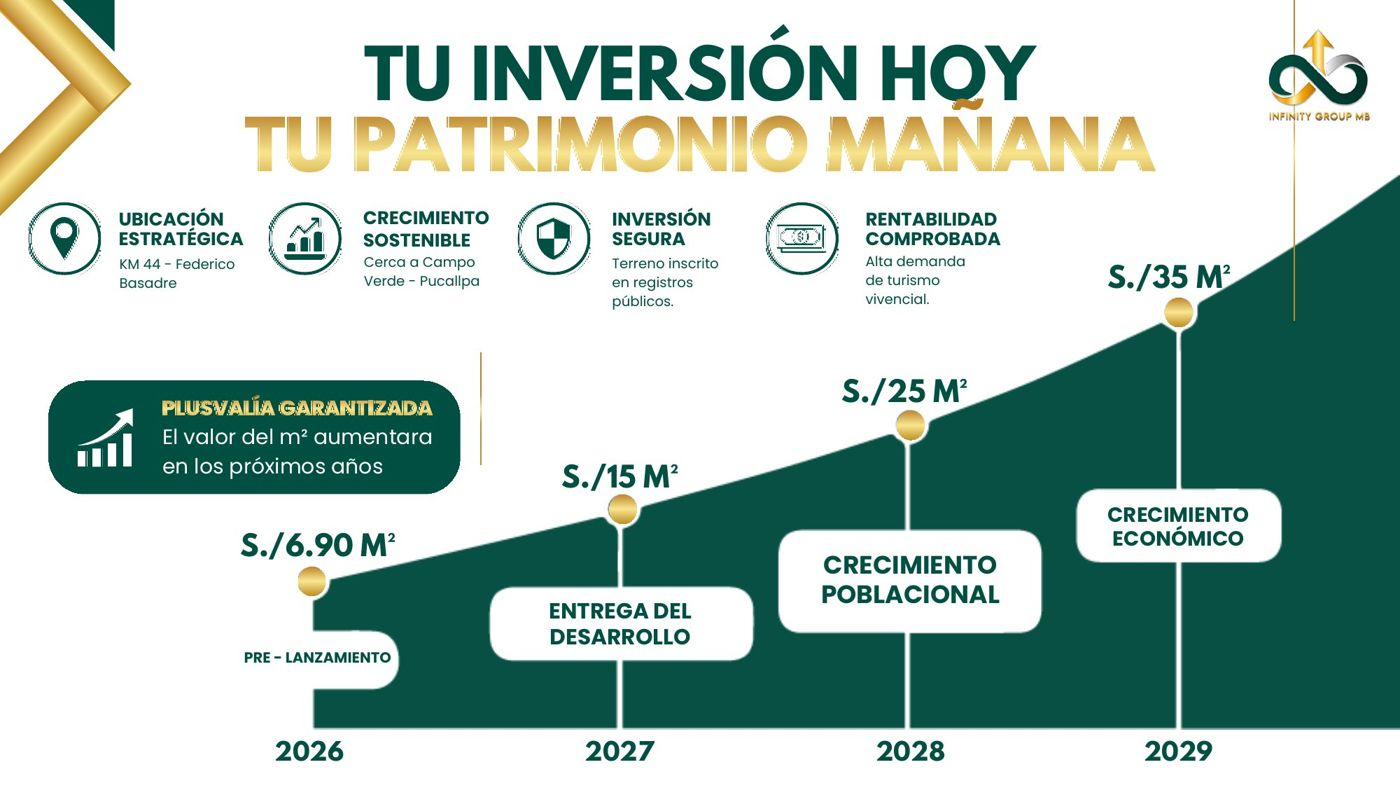
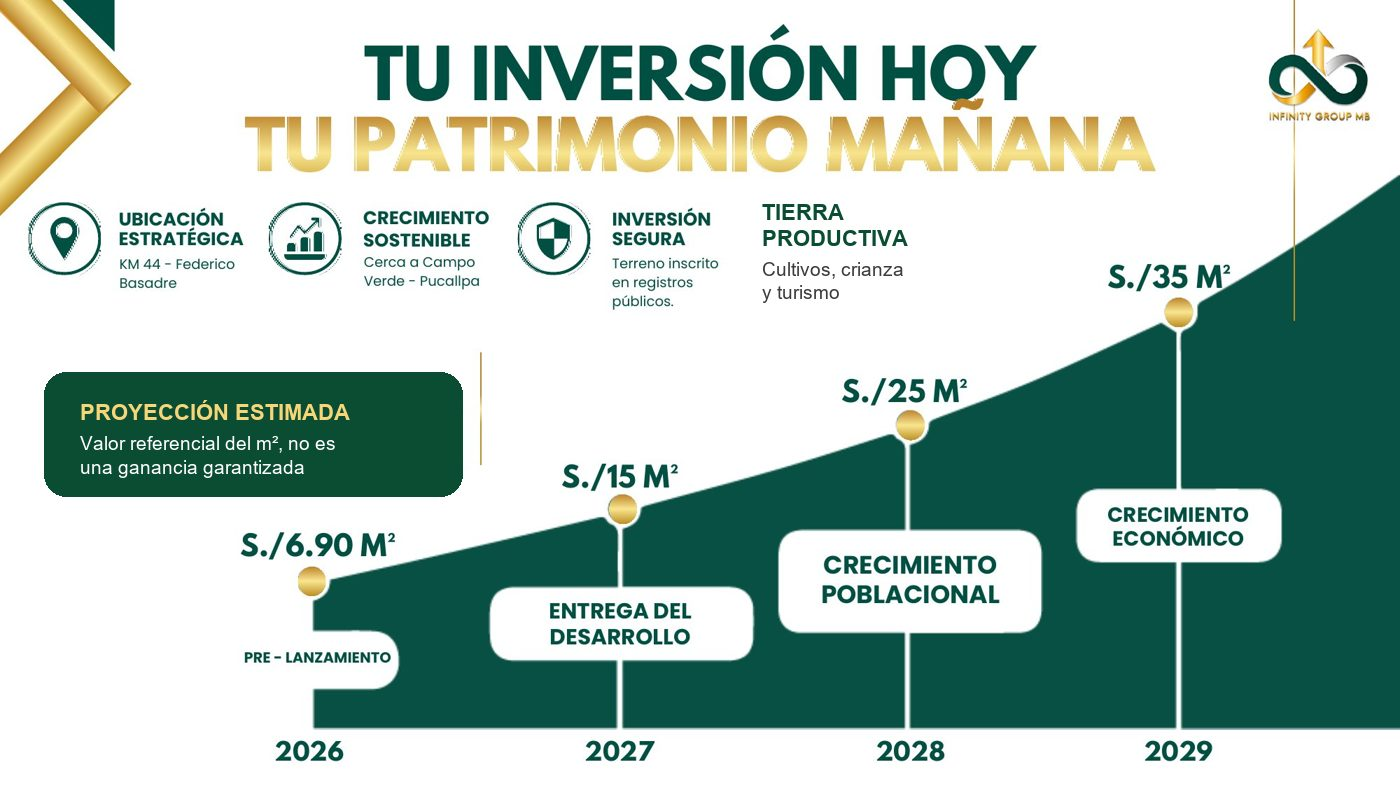
Luces LED animadas, luciérnagas, respuesta al tacto y lámina de plusvalía sin 'garantizada'

Changed region(s): [[0.0307, 0.4569, 0.3379, 0.6396], [0.5221, 0.2437, 0.7371, 0.3959]]

diff --git a/index.html b/index.html
@@ -546,6 +546,77 @@ blockquote cite{display:block;margin-top:10px;font-style:normal;font-weight:800;
 
 @media (min-width:901px){ .reel-row{display:flex;overflow-x:auto;scroll-snap-type:x mandatory;padding-bottom:12px} .reel-row .reel{flex:0 0 230px;scroll-snap-align:start} }
 
+/* ===== Efectos de luz LED y respuesta al tacto (v5) ===== */
+:root{--neon:#3DFF8F;--neon-2:#B8FF3C;--neon-gold:#FFD86B;--neon-orange:#FF9A1F}
+@property --ang{syntax:"<angle>";inherits:false;initial-value:0deg}
+@keyframes spin{to{--ang:360deg}}
+@keyframes ledrun{0%{background-position:0% 50%}100%{background-position:200% 50%}}
+@keyframes glowpulse{0%,100%{opacity:.55}50%{opacity:1}}
+@keyframes shimmer{0%,70%{transform:translateX(-120%) skewX(-20deg)}100%{transform:translateX(220%) skewX(-20deg)}}
+@keyframes firefly{0%{transform:translate(0,0);opacity:0}15%{opacity:1}50%{transform:translate(var(--dx),var(--dy));opacity:.9}85%{opacity:.8}100%{transform:translate(calc(var(--dx)*-.4),calc(var(--dy)*1.6));opacity:0}}
+@keyframes ripple{to{transform:translate(-50%,-50%) scale(1);opacity:0}}
+
+/* Tira LED que recorre el borde inferior del encabezado y del menú */
+.top::after,.subnav::after{content:"";position:absolute;left:0;right:0;bottom:-3px;height:3px;
+  background:linear-gradient(90deg,transparent 0%,var(--neon) 12%,var(--neon-gold) 24%,transparent 36%,transparent 50%,var(--neon-orange) 62%,var(--neon) 74%,transparent 86%);
+  background-size:200% 100%;animation:ledrun 6s linear infinite;filter:drop-shadow(0 0 6px var(--neon));pointer-events:none}
+.subnav{position:sticky}
+.count{position:relative;overflow:hidden}
+.count::before{content:"";position:absolute;inset:0;background:linear-gradient(90deg,transparent,rgba(255,255,255,.55),transparent);width:30%;animation:shimmer 5s ease-in-out infinite;pointer-events:none}
+
+/* Borde LED que gira alrededor de las tarjetas clave */
+.led{position:relative;isolation:isolate}
+.led::before{content:"";position:absolute;inset:-3px;border-radius:inherit;padding:3px;z-index:-1;
+  background:conic-gradient(from var(--ang),transparent 0deg,var(--neon) 40deg,var(--neon-gold) 80deg,transparent 130deg,transparent 200deg,var(--neon-orange) 240deg,var(--neon-2) 280deg,transparent 320deg);
+  -webkit-mask:linear-gradient(#000 0 0) content-box,linear-gradient(#000 0 0);-webkit-mask-composite:xor;mask-composite:exclude;
+  animation:spin 5s linear infinite;filter:drop-shadow(0 0 6px rgba(61,255,143,.7))}
+.led.slow::before{animation-duration:9s}
+
+/* Brillo fosforescente en números y precios */
+.unit b,.ts b,.pill b,.offer .price strong,.sep b,.bank .acc b{text-shadow:0 0 10px rgba(61,255,143,.35)}
+.unit{box-shadow:inset 0 0 0 2px rgba(247,214,122,.35),0 0 14px rgba(61,255,143,.25)}
+.unit b{animation:glowpulse 2.4s ease-in-out infinite}
+.ibox svg{animation:iconglow 3s ease-in-out infinite}
+@keyframes iconglow{0%,100%{filter:drop-shadow(0 0 6px rgba(255,154,31,.45))}50%{filter:drop-shadow(0 0 14px rgba(255,154,31,.9))}}
+.kicker::before,.kicker::after{box-shadow:0 0 8px var(--neon-gold)}
+.tag{box-shadow:0 0 0 0 rgba(229,51,42,.6);animation:tagpulse 2s infinite}
+@keyframes tagpulse{0%{box-shadow:0 0 0 0 rgba(229,51,42,.55)}70%{box-shadow:0 0 0 12px rgba(229,51,42,0)}100%{box-shadow:0 0 0 0 rgba(229,51,42,0)}}
+
+/* Botón dorado con destello que lo cruza */
+.btn{position:relative;overflow:hidden}
+.btn-gold::after{content:"";position:absolute;top:0;bottom:0;left:0;width:40%;background:linear-gradient(90deg,transparent,rgba(255,255,255,.7),transparent);animation:shimmer 3.8s ease-in-out infinite;pointer-events:none}
+
+/* Luciérnagas en las secciones oscuras */
+.reg,.testimonios,.hero{position:relative;overflow:hidden}
+.fireflies{position:absolute;inset:0;overflow:hidden;pointer-events:none;z-index:1}
+.fireflies i{position:absolute;width:5px;height:5px;border-radius:50%;background:var(--c,var(--neon));box-shadow:0 0 8px 2px var(--c,var(--neon)),0 0 18px 4px rgba(61,255,143,.25);animation:firefly var(--t,9s) ease-in-out infinite;animation-delay:var(--d,0s);opacity:0}
+.videos .wrap,.testimonios .wrap,.offers-bg .wrap,.reg .wrap{position:relative;z-index:2}
+
+/* Respuesta al tocar o pasar el dedo / mouse (suave) */
+.ev,.step,.vis,.slide,.reel,.ts,.tour figure,.offer,.doc,.zone-list li,.route-list li,details,.pill,.photo-wall img,.ph{transition:transform .25s ease,box-shadow .25s ease,border-color .25s ease}
+@media (hover:hover){
+  .ev:hover,.step:hover,.vis:hover,.slide:hover,.reel:hover,.ts:hover,.tour figure:hover,.offer:hover,.doc:hover,.pill:hover,.ph:hover{transform:translateY(-4px);box-shadow:0 16px 34px rgba(11,77,50,.22),0 0 0 2px rgba(61,255,143,.55),0 0 22px rgba(61,255,143,.35)}
+  .zone-list li:hover,.route-list li:hover,details:hover{transform:translateX(4px);box-shadow:0 0 0 2px rgba(61,255,143,.45),0 0 16px rgba(61,255,143,.25)}
+  .photo-wall img:hover{transform:scale(1.03);box-shadow:0 0 18px rgba(61,255,143,.5)}
+  .btn:hover{filter:brightness(1.06);box-shadow:0 6px 0 var(--gold-dark),0 0 26px rgba(255,216,107,.75)}
+  .subnav a:hover,.tab:hover{box-shadow:0 0 12px rgba(61,255,143,.6);border-color:var(--neon)}
+  .opt span:hover{border-color:var(--neon);box-shadow:0 0 10px rgba(61,255,143,.35)}
+}
+.ev:active,.step:active,.vis:active,.slide:active,.ts:active,.tour figure:active,.offer:active,.doc:active,.pill:active,.ph:active{transform:scale(.985);box-shadow:0 0 0 2px rgba(61,255,143,.7),0 0 20px rgba(61,255,143,.45)}
+.btn:active{transform:translateY(3px) scale(.99)}
+.opt input:checked+span{box-shadow:inset 0 0 0 1px var(--green),0 0 14px rgba(61,255,143,.45)}
+.field input:focus,.field select:focus{box-shadow:0 0 0 3px rgba(61,255,143,.25),0 0 16px rgba(61,255,143,.3)}
+
+/* Onda de luz donde tocas */
+.tap-ripple{position:fixed;width:120px;height:120px;border-radius:50%;pointer-events:none;z-index:9999;
+  background:radial-gradient(circle,rgba(61,255,143,.45) 0%,rgba(255,216,107,.25) 40%,transparent 70%);
+  transform:translate(-50%,-50%) scale(.2);opacity:.9;animation:ripple .55s ease-out forwards}
+
+@media (prefers-reduced-motion:reduce){
+  .top::after,.subnav::after,.count::before,.led::before,.unit b,.ibox svg,.tag,.btn-gold::after,.fireflies i{animation:none!important}
+  .fireflies{display:none}
+}
+
 </style>
 </head>
 <body>
@@ -584,8 +655,8 @@ blockquote cite{display:block;margin-top:10px;font-style:normal;font-weight:800;
       </div>
     </div>
     <div class="price-row">
-      <div class="pill"><small>Hectárea · 10,000 m²</small><b>S/ 69,000</b><span>S/ 6.90 el m² · al contado</span></div>
-      <div class="pill"><small>Lote · 1,000 m²</small><b>S/ 14,900</b><span>hasta 15 cuotas sin intereses</span></div>
+      <div class="led slow pill"><small>Hectárea · 10,000 m²</small><b>S/ 69,000</b><span>S/ 6.90 el m² · al contado</span></div>
+      <div class="led slow pill"><small>Lote · 1,000 m²</small><b>S/ 14,900</b><span>hasta 15 cuotas sin intereses</span></div>
     </div>
     <div class="cta-row">
       <a href="#registro" class="btn btn-gold pulse">Reservar mi visita del 28</a>
@@ -683,7 +754,7 @@ blockquote cite{display:block;margin-top:10px;font-style:normal;font-weight:800;
       <p class="sub">A 25 minutos de la ciudad de Pucallpa y a 2 minutos del KM 44 de la Carretera Federico Basadre, sector Santa Catalina, Campo Verde (Ucayali).</p>
     </div>
     <div class="map-grid">
-      <div class="map-box reveal">
+      <div class="led slow map-box reveal">
         <iframe title="Mapa de El Encanto de Pucallpa" src="https://maps.google.com/maps?q=-8.5277843,-74.8905258&amp;t=k&amp;z=15&amp;output=embed" loading="lazy" referrerpolicy="no-referrer-when-downgrade" allowfullscreen></iframe>
         <div class="map-actions">
           <a class="btn btn-gold" href="https://www.google.com/maps/dir/?api=1&amp;destination=-8.5277843,-74.8905258" target="_blank" rel="noopener">📍 Cómo llegar con Google Maps</a>
@@ -787,7 +858,7 @@ blockquote cite{display:block;margin-top:10px;font-style:normal;font-weight:800;
       <p class="sub">Precios de prelanzamiento, vigentes hasta el 28 de noviembre.</p>
     </div>
     <div class="offers">
-      <article class="offer star reveal">
+      <article class="led offer star reveal">
         <span class="ribbon">La más pedida</span>
         <h3>Hectárea completa</h3>
         <div class="area">10,000 m² para tu proyecto</div>
@@ -798,7 +869,7 @@ blockquote cite{display:block;margin-top:10px;font-style:normal;font-weight:800;
           <li><svg viewBox="0 0 24 24" fill="none" stroke="currentColor" stroke-width="3"><path d="m5 12 5 5L20 7"/></svg>Entrega inmediata del terreno</li>
         </ul>
       </article>
-      <article class="offer reveal">
+      <article class="led slow offer reveal">
         <span class="ribbon" style="background:var(--green-2)">Con cuotas</span>
         <h3>Lote de 1,000 m²</h3>
         <div class="area">Tu chacra o casa de campo</div>
@@ -842,7 +913,7 @@ blockquote cite{display:block;margin-top:10px;font-style:normal;font-weight:800;
         <span class="kicker">Lo que pasa al final</span>
         <h3 class="anton">Cuando terminamos de vender, <span class="gold-text">celebramos con los propietarios</span></h3>
         <p>Este video es de un proyecto anterior de Infinity Group que se vendió al 100 %, con sorteo del auto 0 km incluido. Es lo mismo que buscamos en El Encanto de Pucallpa: familias propietarias y un cierre que se celebra.</p>
-        <div class="bank">
+        <div class="led slow bank">
           <h4>🏦 Paga solo a cuentas de la empresa</h4>
           <p>Todo pago se hace a nombre de <b>INFINITY GROUP MB S.A.C.</b> (RUC 20615486281) en el BCP. Nunca deposites a cuentas personales.</p>
           <div class="acc"><span>Cuenta corriente en soles</span><b>1937355962044</b><small>CCI 00219300735596204415</small></div>
@@ -951,7 +1022,7 @@ blockquote cite{display:block;margin-top:10px;font-style:normal;font-weight:800;
       </div>
     </div>
 
-    <div class="form reveal" id="formBox">
+    <div class="led form reveal" id="formBox">
       <form id="regForm" novalidate>
         <h3>Reserva tu visita del 28</h3>
         <p class="hint">Todos los campos son obligatorios.</p>
@@ -1138,6 +1209,36 @@ blockquote cite{display:block;margin-top:10px;font-style:normal;font-weight:800;
   // Solo un video sonando a la vez
   document.querySelectorAll("video[controls]").forEach(function(v){ v.addEventListener("play", function(){
     document.querySelectorAll("video[controls]").forEach(function(o){ if(o!==v) o.pause(); }); }); });
+
+
+  // Luces: luciérnagas en secciones oscuras
+  (function(){
+    if (window.matchMedia && matchMedia("(prefers-reduced-motion: reduce)").matches) return;
+    var cols = ["#3DFF8F","#B8FF3C","#FFD86B","#FF9A1F"];
+    document.querySelectorAll(".hero,.videos,.testimonios,.offers-bg,.reg").forEach(function(sec){
+      var box = document.createElement("div"); box.className = "fireflies"; box.setAttribute("aria-hidden","true");
+      var n = window.innerWidth < 700 ? 8 : 14;
+      for (var i=0;i<n;i++){
+        var f = document.createElement("i");
+        f.style.left = (Math.random()*100)+"%"; f.style.top = (Math.random()*100)+"%";
+        f.style.setProperty("--dx", (Math.random()*80-40)+"px");
+        f.style.setProperty("--dy", (Math.random()*-90-20)+"px");
+        f.style.setProperty("--t", (7+Math.random()*7)+"s");
+        f.style.setProperty("--d", (Math.random()*-12)+"s");
+        f.style.setProperty("--c", cols[i%cols.length]);
+        box.appendChild(f);
+      }
+      sec.appendChild(box);
+    });
+  })();
+  // Onda de luz donde tocas
+  document.addEventListener("pointerdown", function(e){
+    var t = e.target.closest("a,button,.opt,.ev,.step,.vis,.slide,.ts,.tour figure,.offer,.doc,.pill,.ph,summary,.tab");
+    if (!t) return;
+    var r = document.createElement("span"); r.className = "tap-ripple";
+    r.style.left = e.clientX+"px"; r.style.top = e.clientY+"px";
+    document.body.appendChild(r); setTimeout(function(){ r.remove(); }, 600);
+  }, {passive:true});
 
   // Formulario
   var f = q("#regForm");
